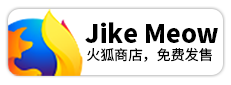
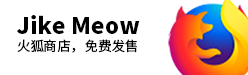
Refurnish Firefox add-on badge | MS Edge Beta v1.0

diff --git a/README.md b/README.md
@@ -19,7 +19,9 @@
 
 下载地址：
 
-[![即刻喵 Jike Meow 🐱](./images/AddonBadge.png)]((https://addons.mozilla.org/zh-CN/firefox/addon/%E5%8D%B3%E5%88%BB%E5%96%B5/))
+<a href="https://addons.mozilla.org/zh-CN/firefox/addon/%E5%8D%B3%E5%88%BB%E5%96%B5/">
+<img src="./images/AddonBadge.png" style="box-shadow: 0 4px 8px 0 rgba(0, 0, 0, 0.2), 0 0 50px 0 rgba(0, 0, 0, 0.2);" alt="即刻喵 Jike Meow 🐱">
+</a>
 
 ## Microsoft Edge 源码安装方法
 
